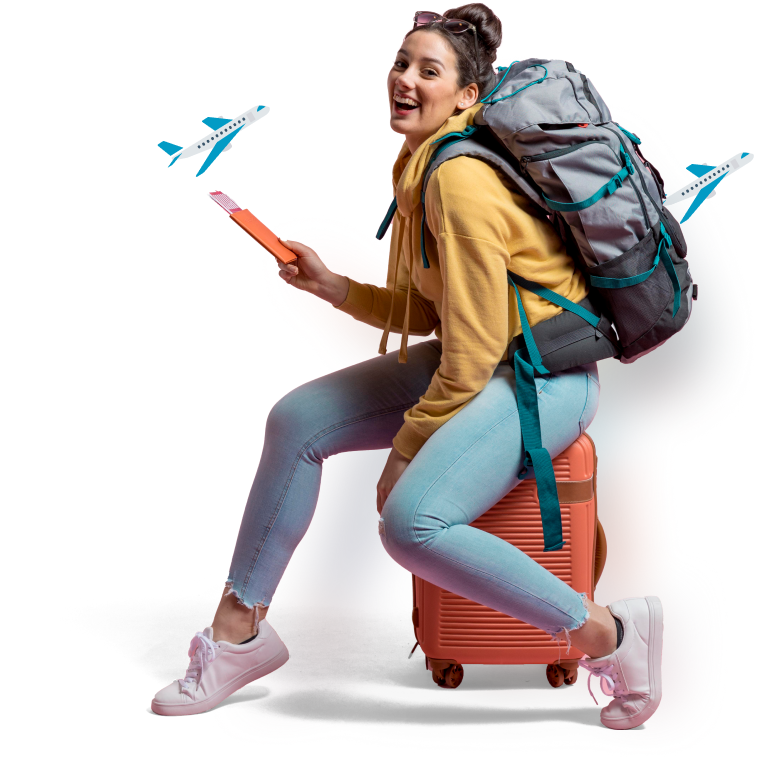
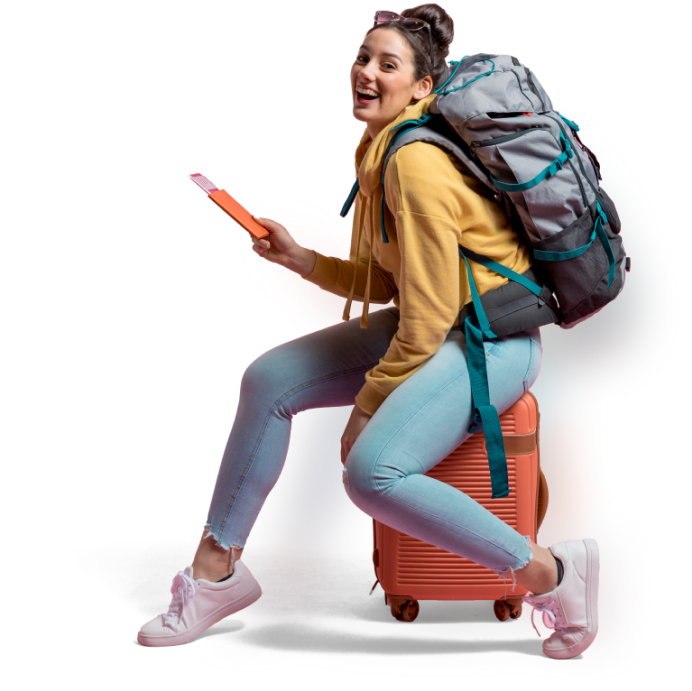
animations, hero section

diff --git a/src/styles/components/_hero.scss b/src/styles/components/_hero.scss
@@ -1,12 +1,22 @@
 @use "../base/variables" as *;
+@use "../utils" as u;
 
 .hero {
   display: flex;
   width: 100%;
+  flex-direction: column-reverse;
   align-items: center;
+  @include u.mq(md) {
+    flex-direction: row;
+  }
   justify-content: space-between;
   &__content {
-    flex: 2;
+    @include u.mq(md) {
+      flex: 3;
+    }
+    @include u.mq(xl) {
+      flex: 2;
+    }
     display: flex;
     flex-direction: column;
     gap: 20px;
@@ -14,7 +24,10 @@
     h4 {
       color: $custom-red-col;
       text-transform: uppercase;
-      font-size: 20px;
+      font-size: 16px;
+      @include u.mq(lg) {
+        font-size: 20px;
+      }
       font-weight: bold;
     }
     &__buttons {
@@ -27,7 +40,10 @@
       color: white;
       background-color: $custom-orange-col;
       border-radius: 10px;
-      font-size: $font-size-small-heading;
+      font-size: 15px;
+      @include u.mq(lg) {
+        font-size: $font-size-small-heading;
+      }
       border: 1px solid white;
       transition: $main-trans;
       &:hover {
@@ -41,7 +57,10 @@
       gap: 15px;
       align-items: center;
       justify-content: center;
-      font-size: 17px;
+      font-size: 14px;
+      @include u.mq(lg) {
+        font-size: 17px;
+      }
       color: $text-col;
       transition: $main-trans;
       div {
@@ -68,9 +87,36 @@
     }
   }
   &__image {
-    flex: 3;
+    @include u.mq(md) {
+      flex: 4;
+    }
+    @include u.mq(xl) {
+      flex: 3;
+    }
     display: flex;
     align-items: center;
     justify-content: end;
+    position: relative;
+    &__traveller {
+      margin-right: 60px;
+    }
+    &__plane1 {
+      position: absolute;
+      right: 60%;
+      top: 5%;
+      z-index: -2;
+      opacity: 0;
+      animation: flyShort 0.8s ease-out forwards;
+      animation-delay: 0.6s;
+    }
+    &__plane2 {
+      position: absolute;
+      right: 5%;
+      top: 10%;
+      z-index: 2;
+      opacity: 0;
+      animation: flyLong 0.8s ease-out forwards;
+      animation-delay: 0.9s;
+    }
   }
 }

diff --git a/src/components/Hero.jsx b/src/components/Hero.jsx
@@ -37,7 +37,21 @@ const Hero = () => {
         </div>
       </div>
       <div className="hero__image">
-        <img src="./images/general/traveler.png" alt="traveler" />
+        <img
+          src="./images/general/traveler.png"
+          alt="traveler"
+          className="hero__image__traveller"
+        />
+        <img
+          src="./images/general/plane.png"
+          alt="plane"
+          className="hero__image__plane1"
+        />
+        <img
+          src="./images/general/plane.png"
+          alt="plane"
+          className="hero__image__plane2"
+        />
       </div>
     </section>
   );

diff --git a/src/styles/components/_header.scss b/src/styles/components/_header.scss
@@ -1,4 +1,5 @@
 @use "../base/variables" as *;
+@use "../utils" as u;
 
 .header {
   width: 100%;
@@ -6,11 +7,23 @@
   justify-content: space-between;
   align-items: center;
   &__wrapper {
-    padding: 20px 60px;
+    padding: 20px 0;
     display: flex;
     justify-content: center;
     align-items: center;
     overflow-x: hidden;
+    @include u.mq(sm) {
+      padding: 20px 10px;
+    }
+    @include u.mq(md) {
+      padding: 20px 60px;
+    }
+    @include u.mq(xl) {
+      padding: 20px 120px;
+    }
+    @include u.mq(2xl) {
+      padding: 20px 240px;
+    }
   }
   &__logo {
     opacity: 0;

diff --git a/src/styles/main.scss b/src/styles/main.scss
@@ -8,7 +8,7 @@
 
 .background-image {
   position: absolute;
-  z-index: -1;
+  z-index: -10;
   width: 100vw;
 }
 
@@ -16,17 +16,17 @@
   padding: 0 60px;
   display: flex;
   flex-direction: column;
-  @include u.mq(md) {
-    margin-left: 200px;
+  @include u.mq(sm) {
+    padding: 0 10px;
   }
-  @include u.mq(lg) {
-    margin-left: 200px;
+  @include u.mq(md) {
+    padding: 0 60px;
   }
   @include u.mq(xl) {
-    margin-left: 200px;
+    padding: 0 120px;
   }
   @include u.mq(2xl) {
-    margin-left: 600px;
+    padding: 0 240px;
   }
 }
 

diff --git a/src/styles/base/_variables.scss b/src/styles/base/_variables.scss
@@ -22,6 +22,28 @@
   }
 }
 
+@keyframes flyLong {
+  from {
+    transform: translate(-200%, 200%);
+    opacity: 0;
+  }
+  to {
+    transform: translate(0, 0);
+    opacity: 1;
+  }
+}
+
+@keyframes flyShort {
+  from {
+    transform: translate(-100%, 100%);
+    opacity: 0;
+  }
+  to {
+    transform: translate(0, 0);
+    opacity: 1;
+  }
+}
+
 // colors
 
 $primary-col: #fff1da;
@@ -57,7 +79,7 @@ $main-trans: all ease-out 0.3s;
 
 $breakpoints: (
   sm: 640px,
-  md: 768px,
+  md: 888px,
   lg: 1024px,
   xl: 1280px,
   2xl: 1536px,

diff --git a/src/styles/base/_typography.scss b/src/styles/base/_typography.scss
@@ -1,8 +1,13 @@
 @use "./variables" as *;
+@use "../utils" as u;
 
-body {
+p,
+span {
   font-family: $font-primary;
-  font-size: $font-size-text;
+  font-size: 14px;
+  @include u.mq(md) {
+    font-size: $font-size-text;
+  }
   color: $text-col;
 }
 
@@ -10,9 +15,14 @@ body {
 h1 {
   font-family: $font-secondary;
   font-weight: bold;
-  font-size: 84px;
+  font-size: 40px;
+  @include u.mq(lg) {
+    font-size: 60px;
+  }
+  @include u.mq(2xl) {
+    font-size: 84px;
+  }
   color: $heading-col;
-  line-height: 89px;
 }
 
 h2,
